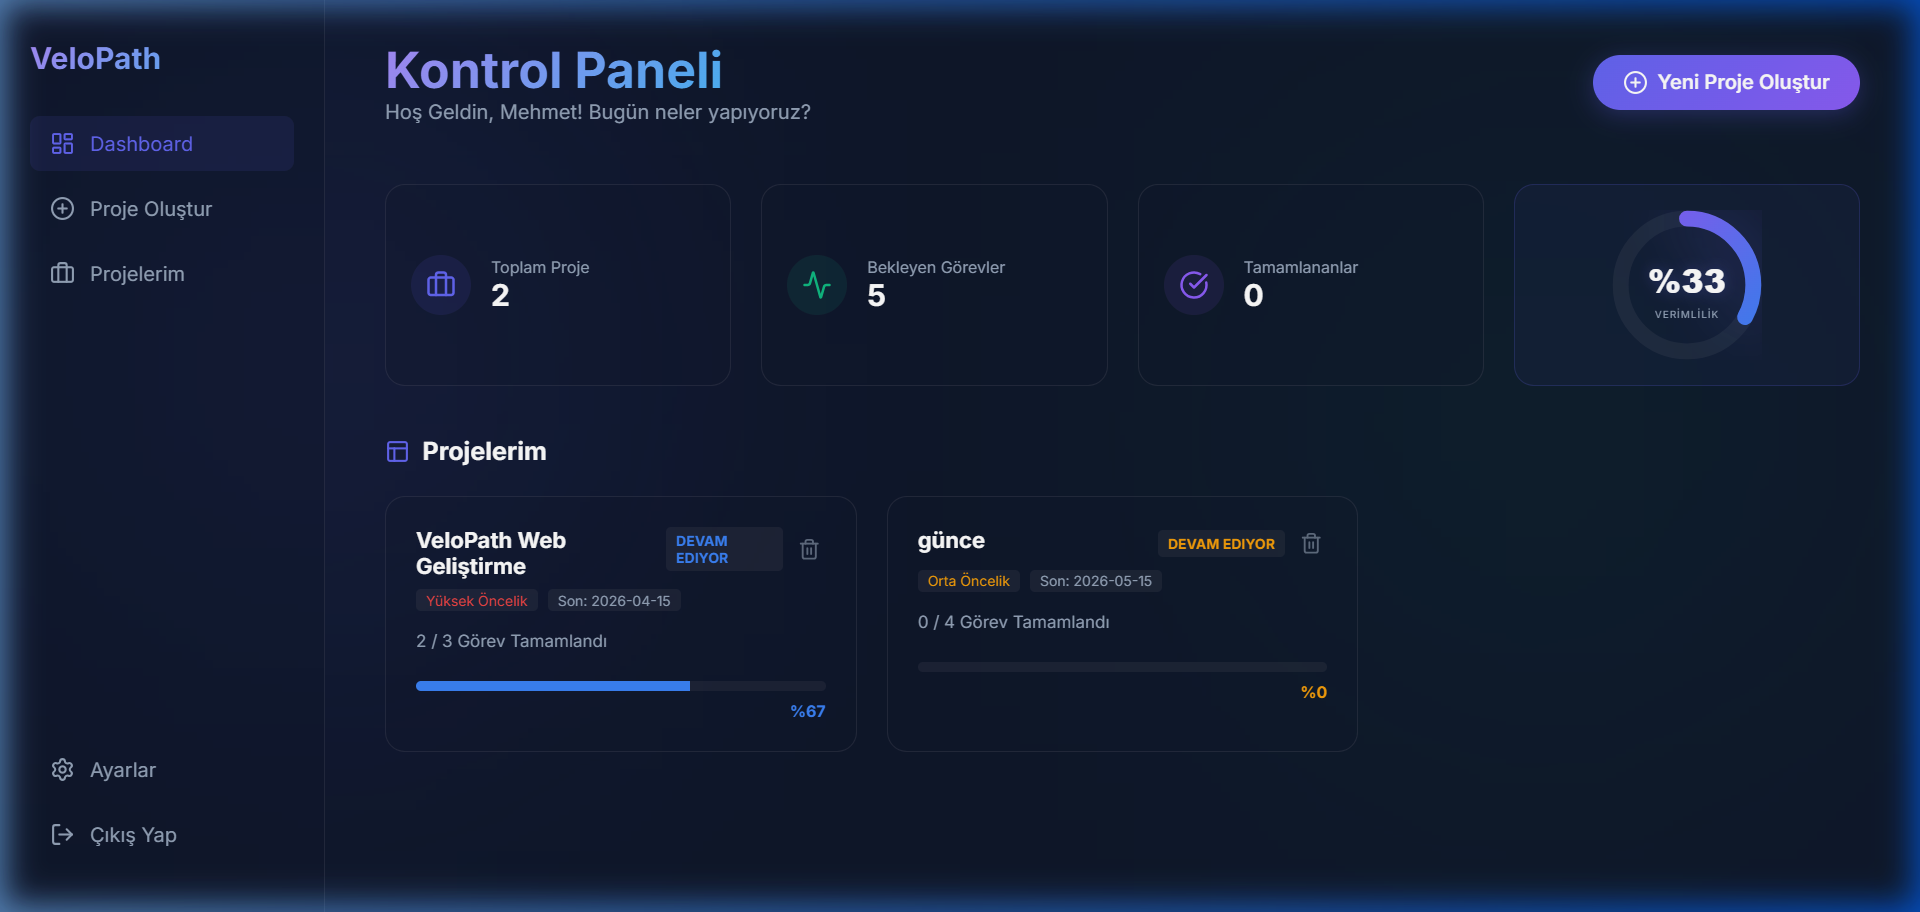
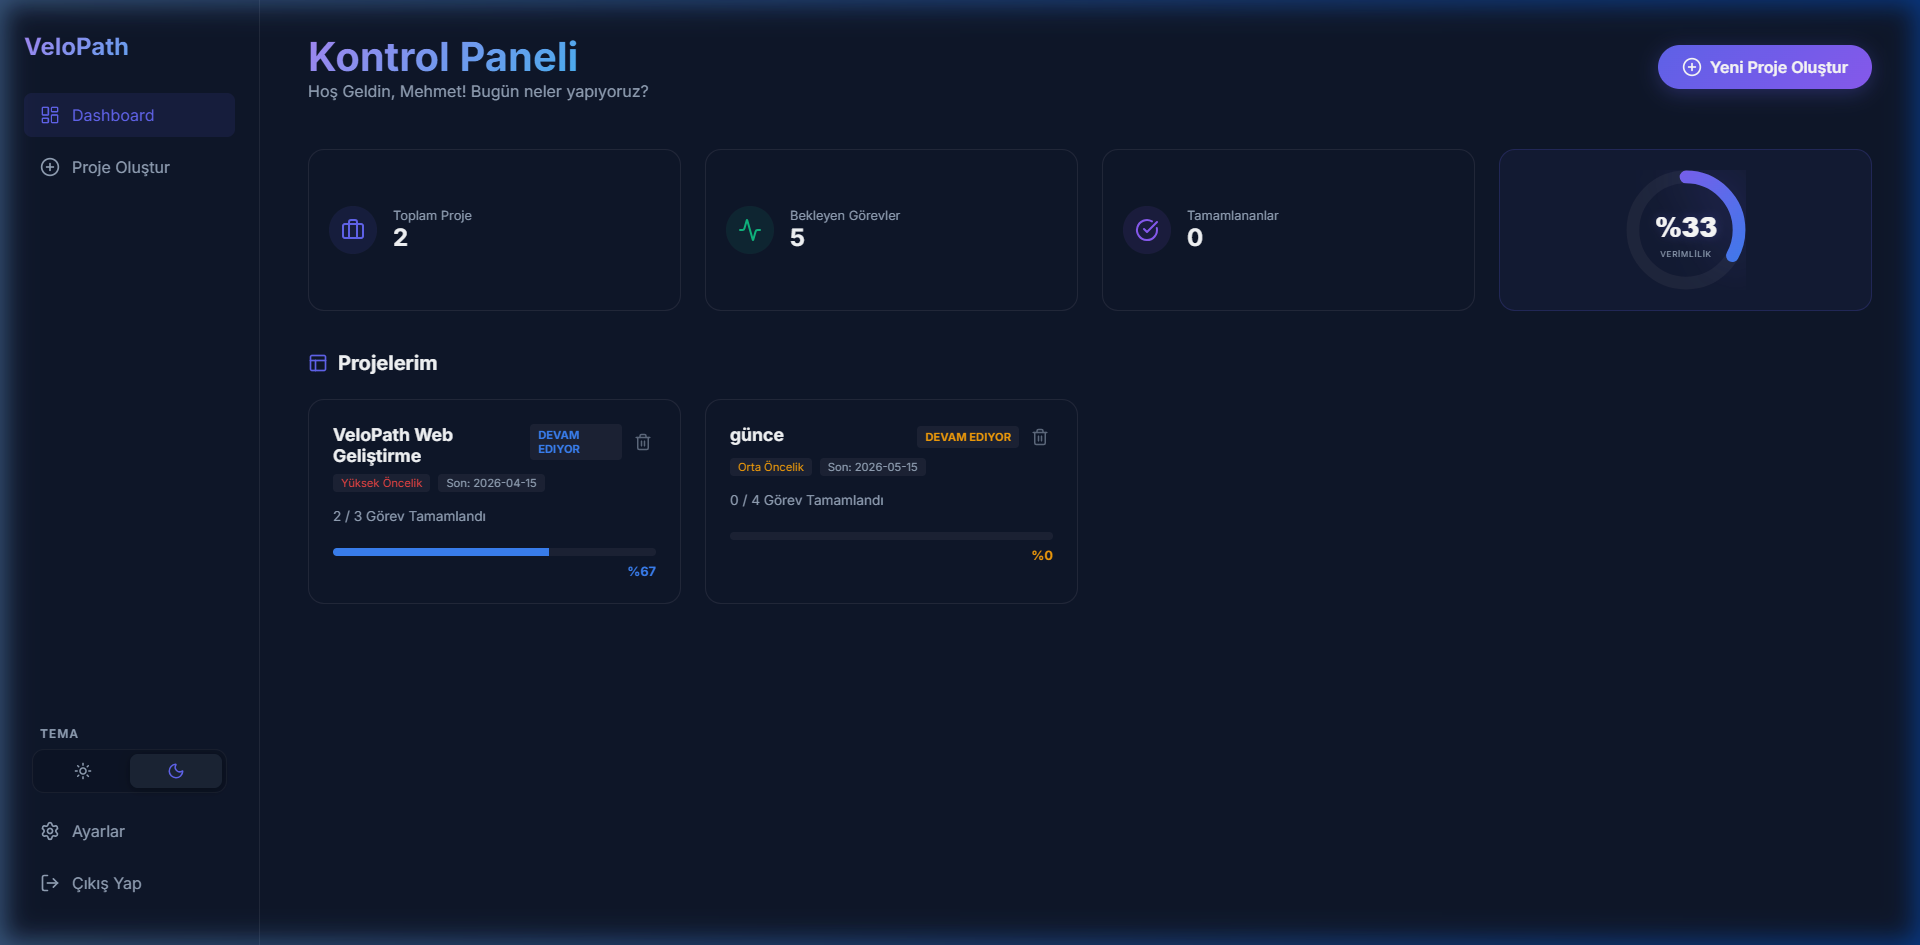
docs: uygulama ekran görüntüleri en güncel haliyle yenilendi

diff --git a/README.md b/README.md
@@ -33,6 +33,10 @@ Not editörü ve görev bağımlılıklarının yönetim alanı.
 Önizleme destekli, hızlı proje oluşturma formu.
 ![Create Project Preview](./docs/assets/create_project_preview.png)
 
+### 4. Aydınlık Tema Desteği
+Göz yormayan, modern ve ferah yeni aydınlık tema seçeneği.
+![Light Mode Preview](./docs/assets/dashboard_light.png)
+
 ---
 
 ## 🛠 Teknoloji Yığını
